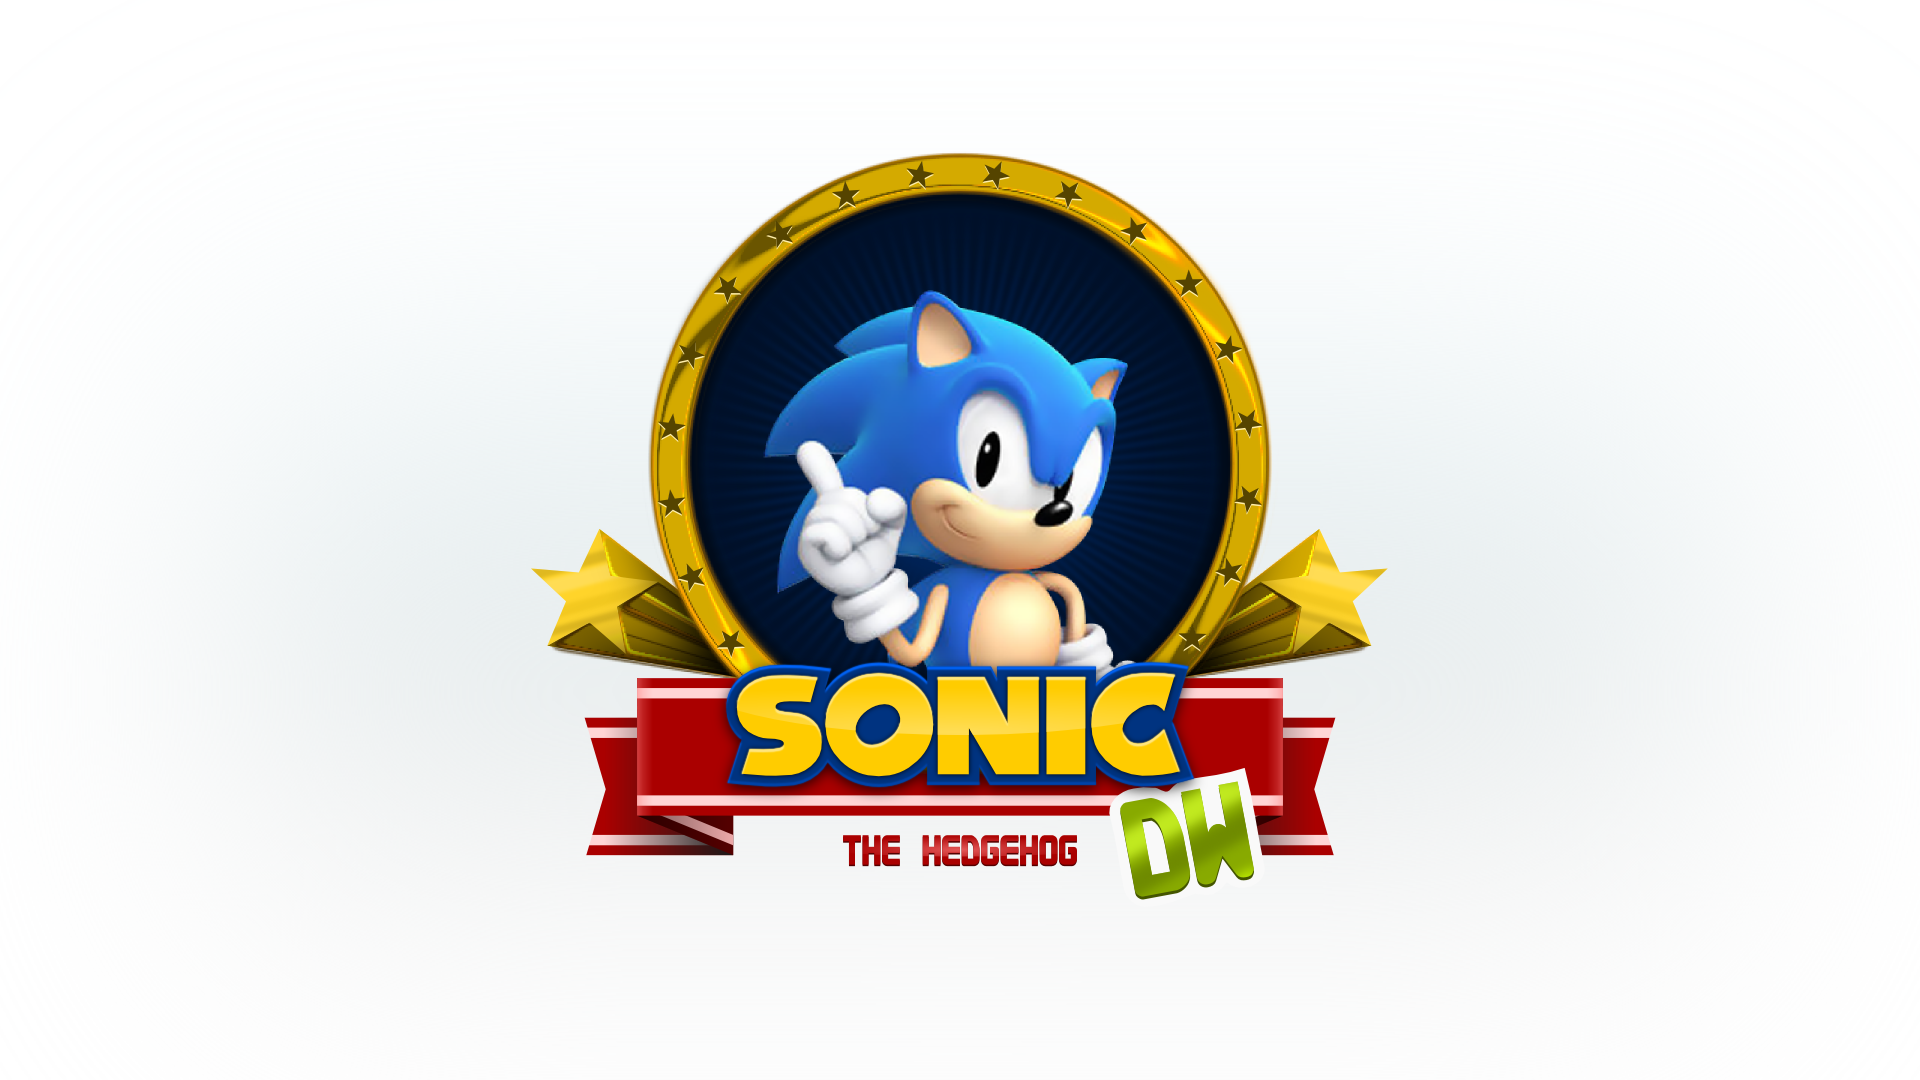
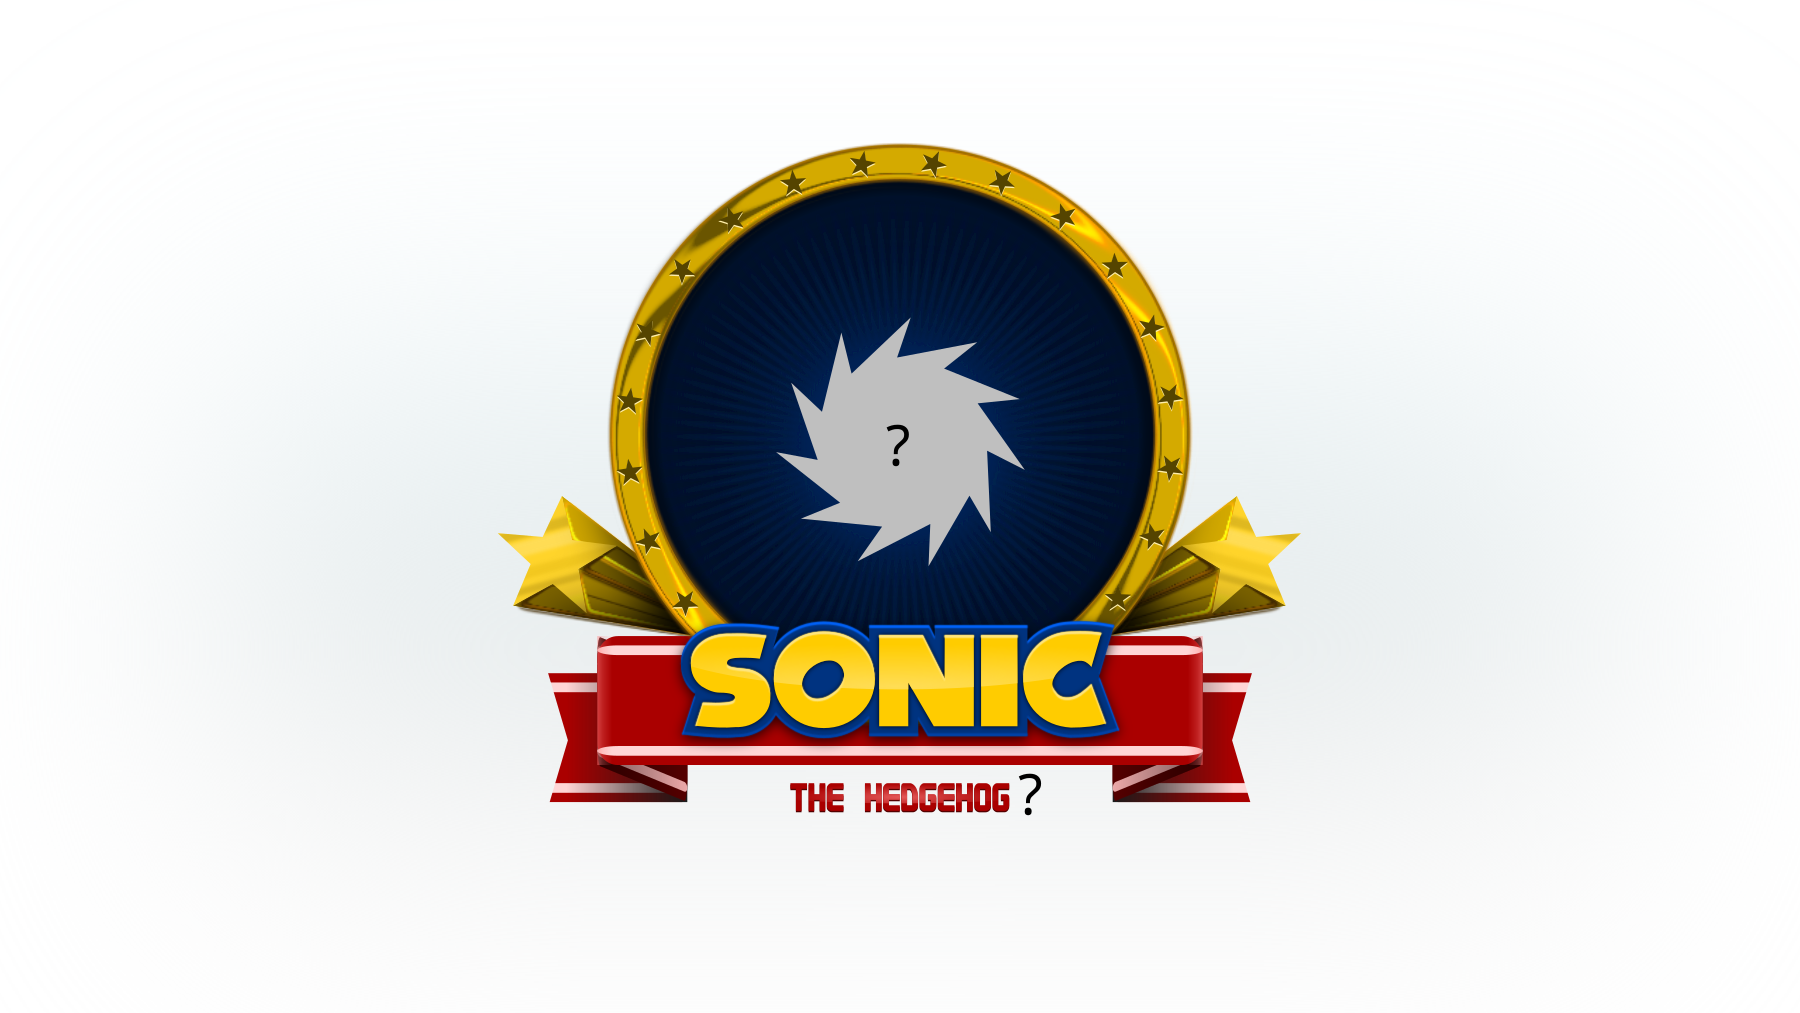
rebranding as qt-sonic

Changed region(s): [[0.3733, 0.2754, 0.5911, 0.6426], [0.3733, 0.7038, 0.6844, 0.8569], [0.3111, 0.7345, 0.3422, 0.7651]]

diff --git a/qml/dev/DWDevMenu.qml b/qml/dev/DWDevMenu.qml
@@ -25,7 +25,7 @@ Item {
     {
         anchors.horizontalCenter: parent.horizontalCenter
         y: 16
-        text: "DW DEV MENU"
+        text: "DEV MENU"
     }
 
     FocusScope {
@@ -90,7 +90,7 @@ Item {
 
         anchors.horizontalCenter: parent.horizontalCenter
         y: parent.height - 16
-        text: "Lucas Camargo - cmakeshift - " + globalBuildDate
+        text: "qt-sonic - " + globalBuildDate
 
     }
 

diff --git a/qml/DWMainWindow.qml b/qml/DWMainWindow.qml
@@ -6,7 +6,7 @@ import dw 1.0
 Window {
     id: rootWindow
 
-    title: "dw"
+    title: "qt-sonic"
 
     visible: true
     visibility: _DW_MOBILE? Window.FullScreen : Window.Windowed
